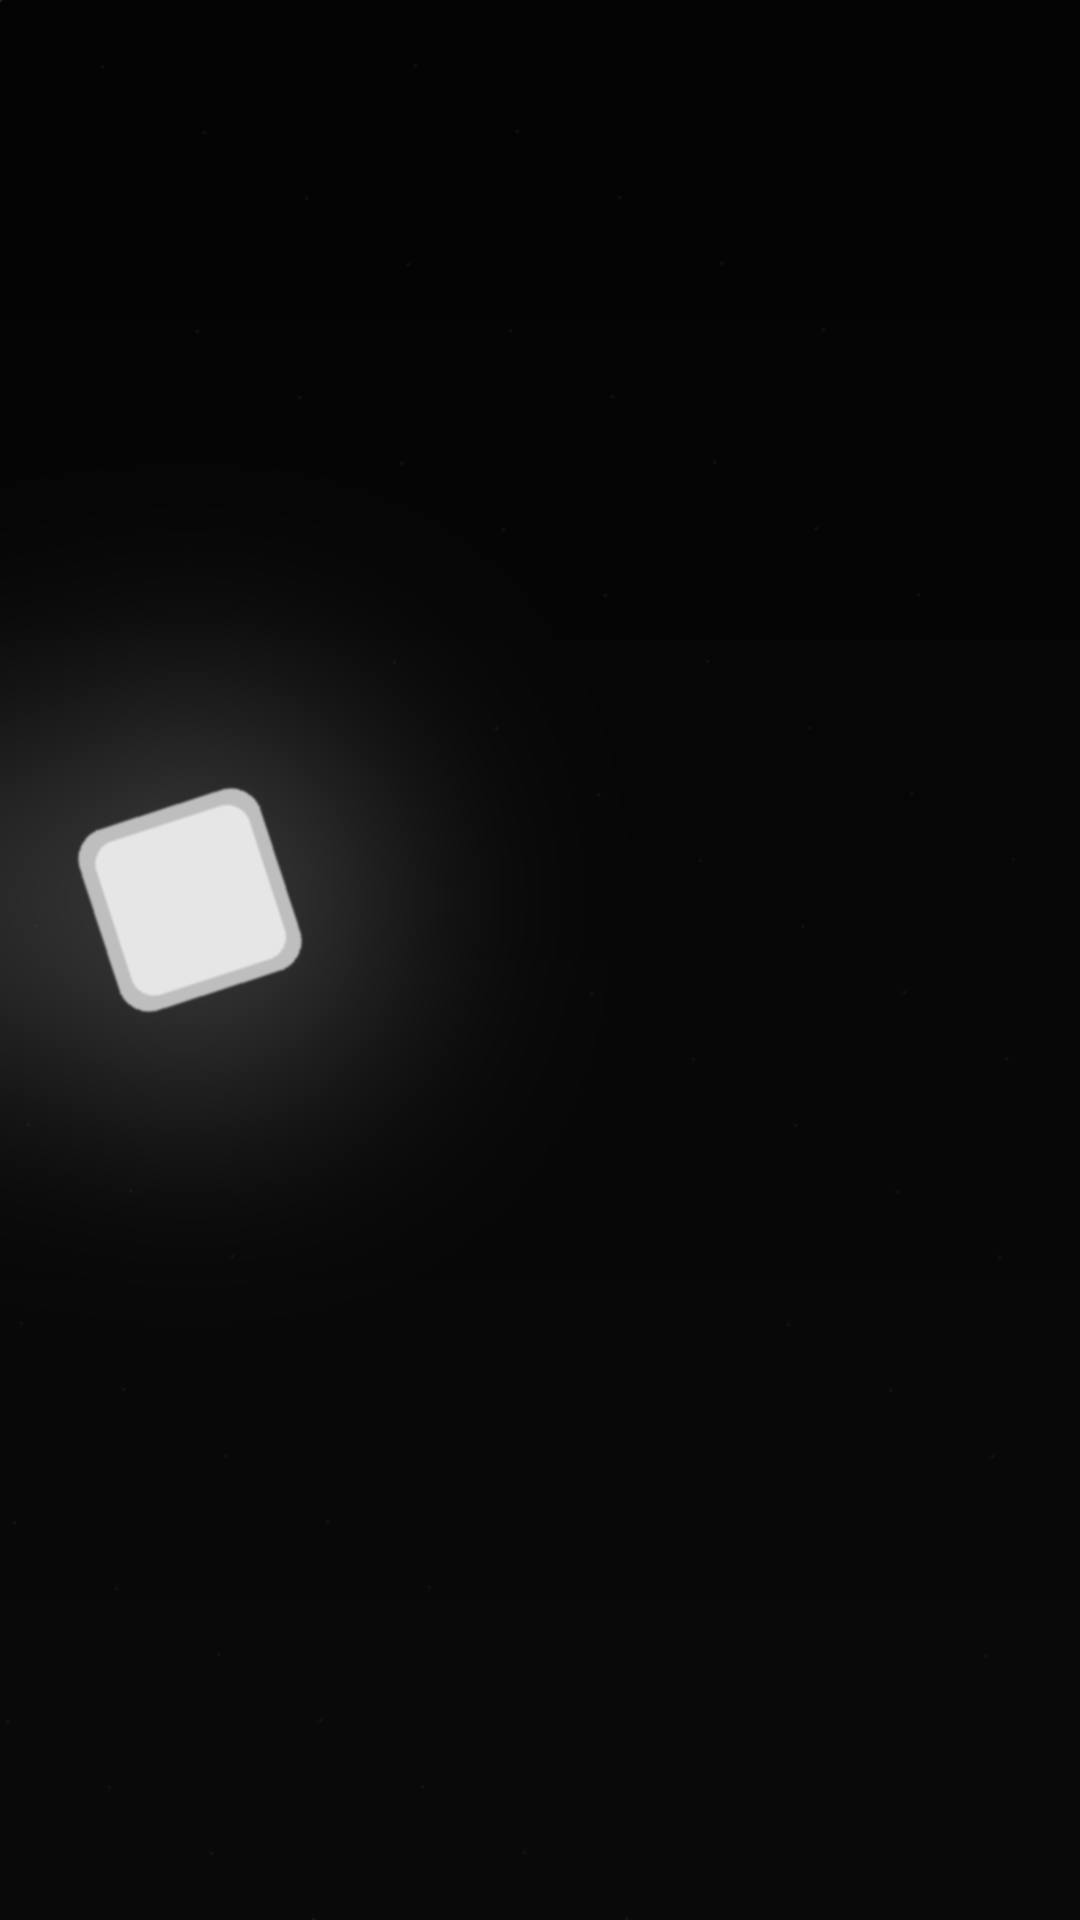
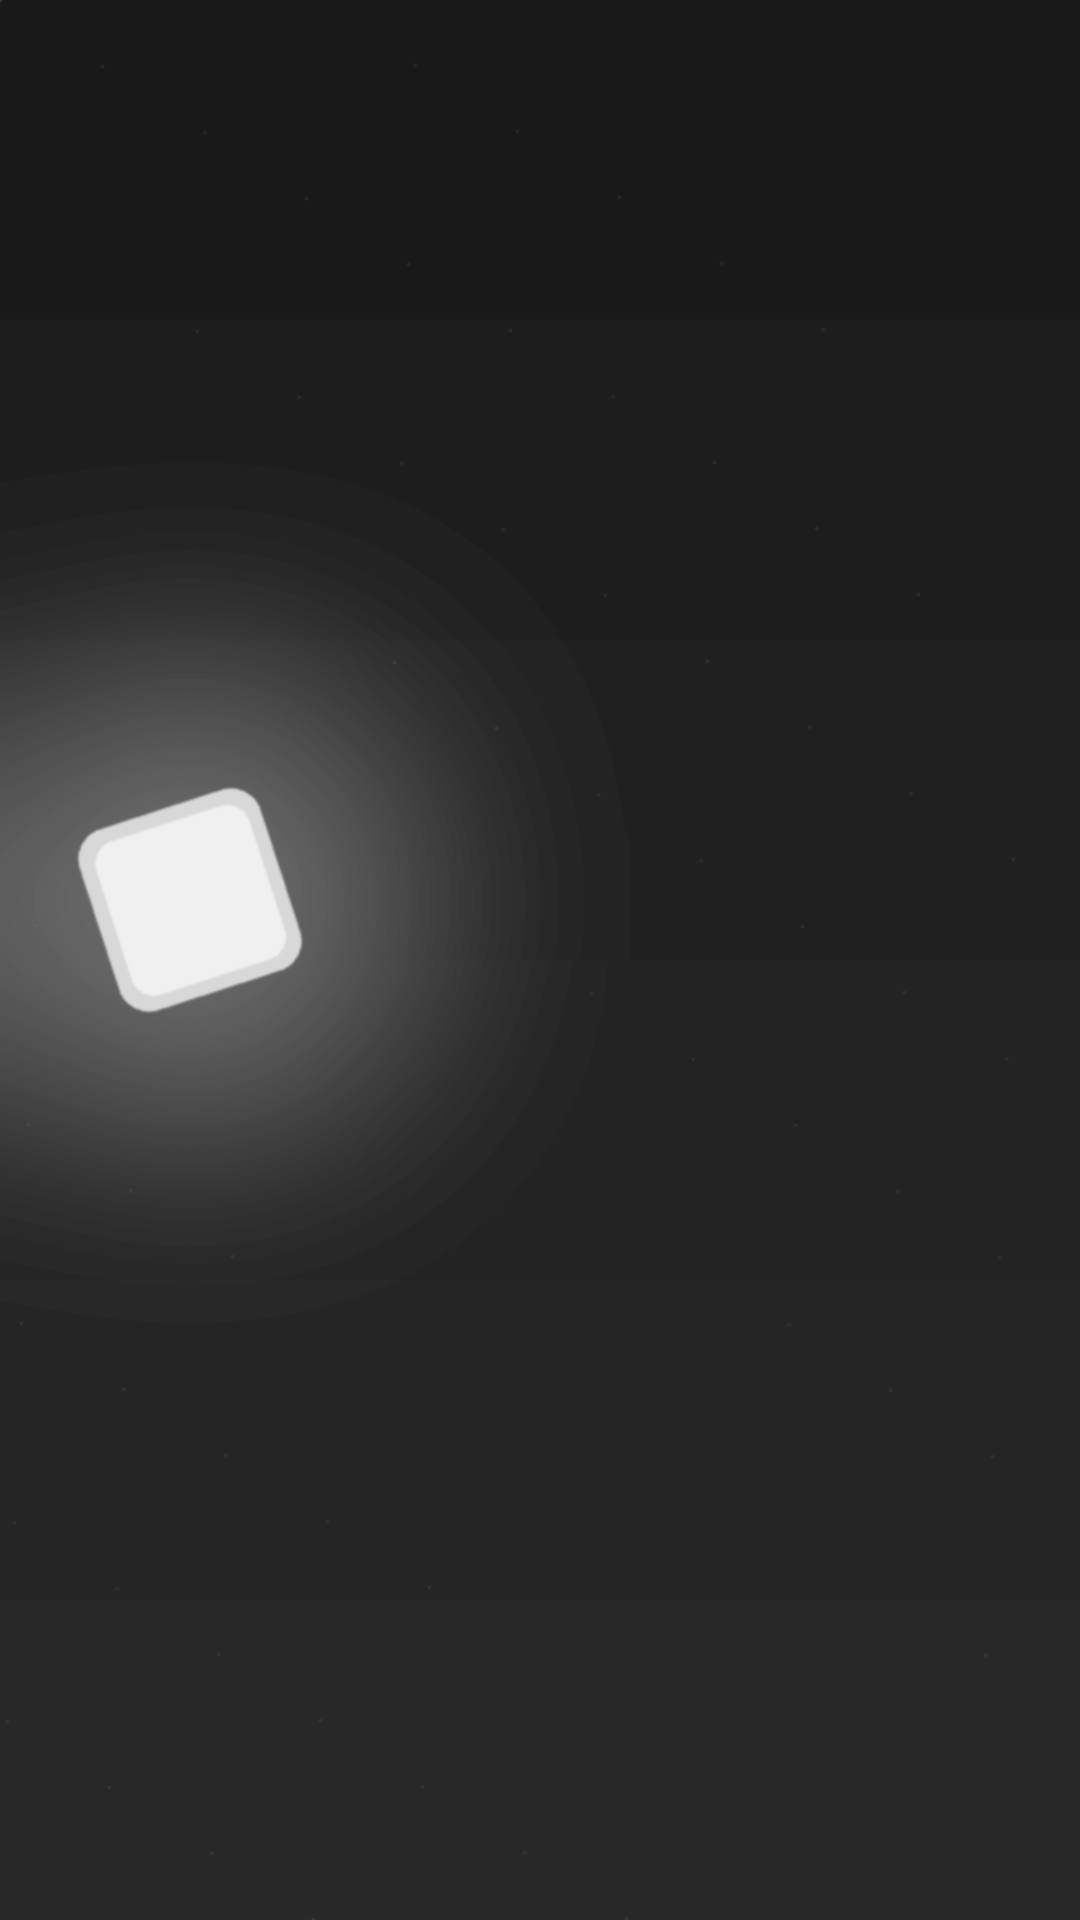
Finish polish: readable Prologue stills, dated daily chip, clean credits text
The storyboard stills were drawn near black; a tone lift in the generator brings the mid greys
up. The daily round's right chip shows the date instead of repeating the title. The WordNet
attribution no longer carries a stray quote.

Claude-Session: https://claude.ai/code/session_013kpjUMFT2PQJ3gH4saLom8

diff --git a/scripts/art/make_stills.py b/scripts/art/make_stills.py
@@ -21,6 +21,13 @@ def G(v):
     return (v, v, v)
 
 
+def lift(img):
+    """Tone lift so the near-black drawings read on a phone in daylight: a gamma curve that keeps the
+    blacks black and brings the mid greys up (the stills are drawn dark, like a storyboard)."""
+    lut = [int(255 * (v / 255) ** 0.55) for v in range(256)] * 3
+    return img.point(lut)
+
+
 def canvas(top, bottom):
     img = Image.new("RGB", (W, H))
     d = ImageDraw.Draw(img)
@@ -206,7 +213,7 @@ def main():
         timing[key] = [{"id": b["id"], "seconds": b["seconds"]} for b in beats]
     (root / "game" / "data" / "stills.json").write_text(json.dumps(timing, indent=1) + "\n")
     for name in ["p1", "p2", "p3", "p4", "p5", "p6", "p7", "f1", "f2", "f3", "f4", "f5"]:
-        img = globals()[name]().filter(ImageFilter.GaussianBlur(1.2))
+        img = lift(globals()[name]()).filter(ImageFilter.GaussianBlur(1.2))
         img.save(OUT / f"{name}.jpg", quality=72, optimize=True)
         print(name, (OUT / f"{name}.jpg").stat().st_size)
 

diff --git a/tools/astrolex_tools/export_game_data.py b/tools/astrolex_tools/export_game_data.py
@@ -56,7 +56,8 @@ def build_credits() -> str:
         if raw.startswith("|") and len(cells) >= 6 and cells[0] not in ("Source",) and not cells[0].startswith("---"):
             a = cells[4]
             if a and not a.startswith(("None", "Keep", "Attribution")):
-                attrib.append(a.strip('"').replace("plus the licence text in the app's Licences screen", "").strip())
+                a = a.replace("plus the licence text in the app's Licences screen", "").strip()
+                attrib.append(a.strip('"').strip())
     attrib += ["Word list: ENABLE (public domain).", "Word difficulty: wordfreq (Apache-2.0; data CC BY-SA 4.0)."]
     return "\n".join(lines + ["", "Word data and licences"] + attrib)
 
